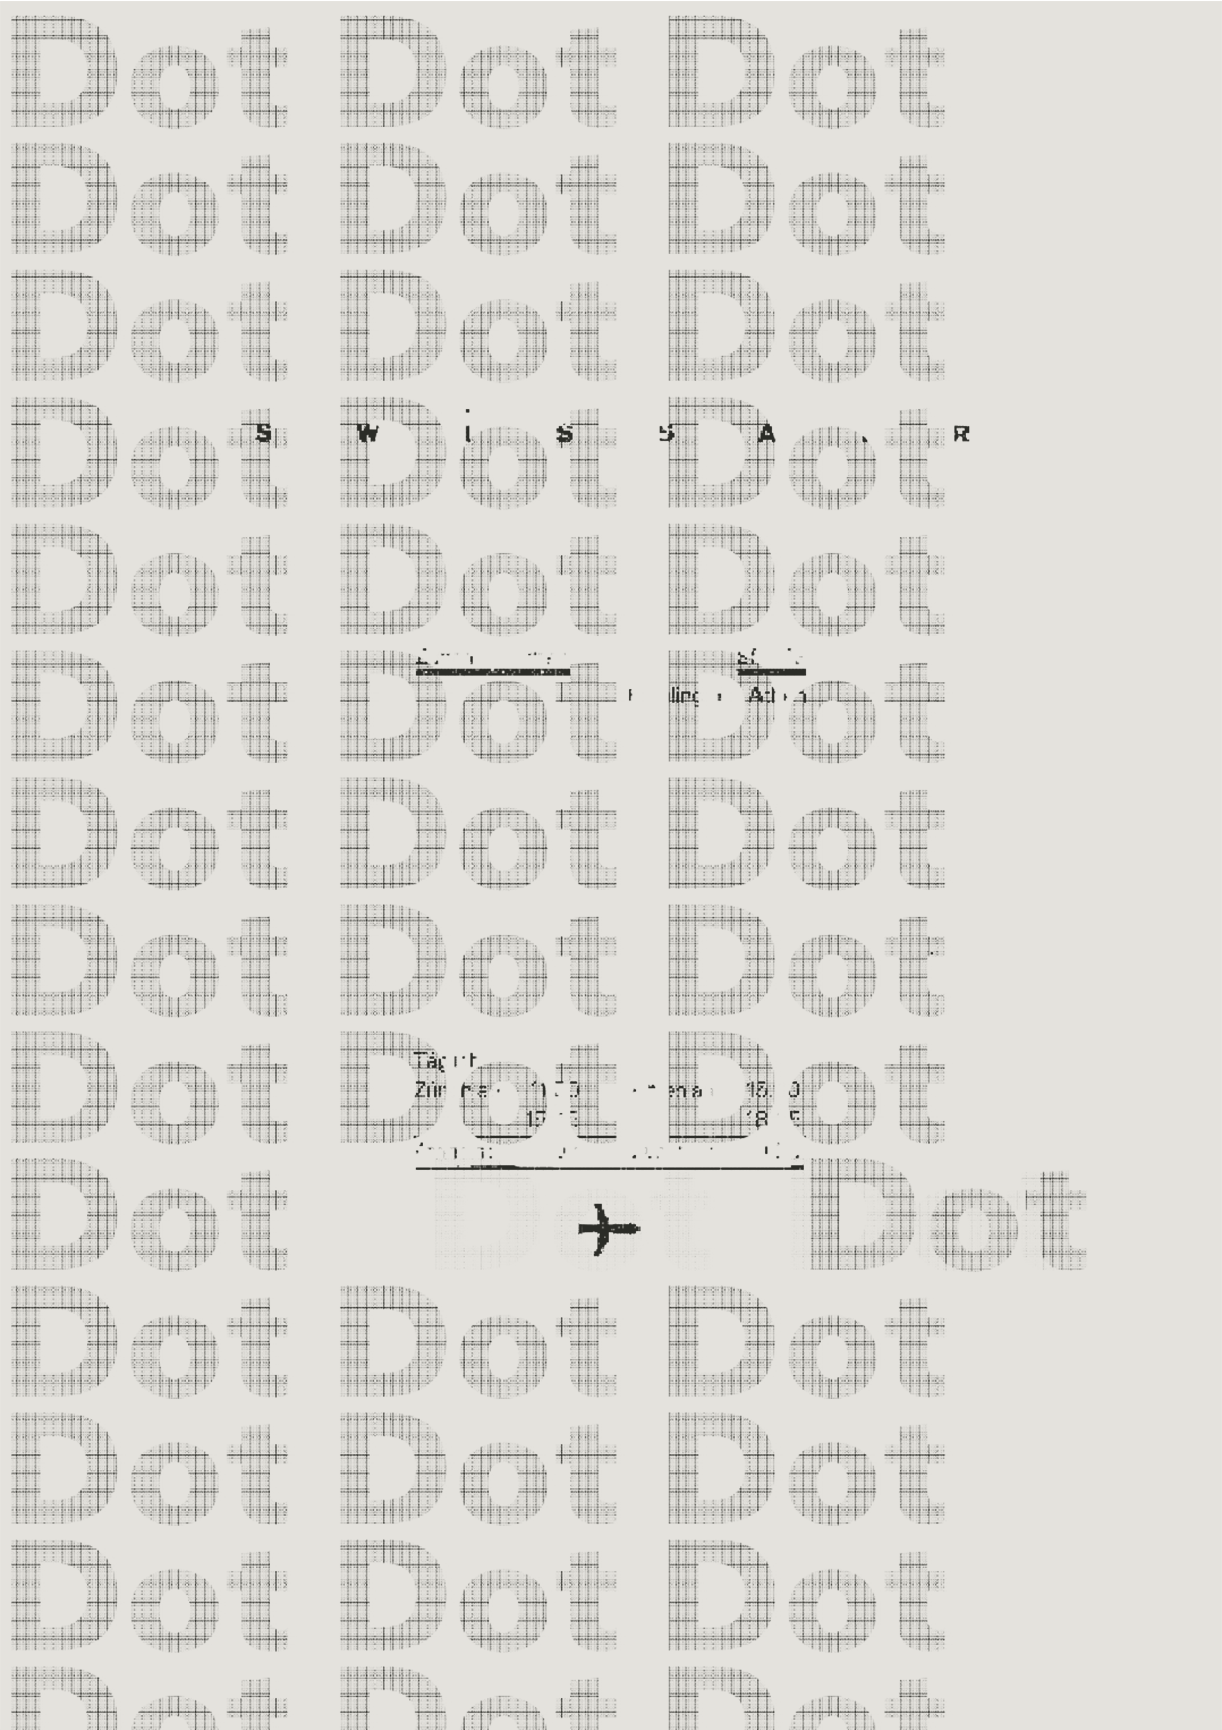
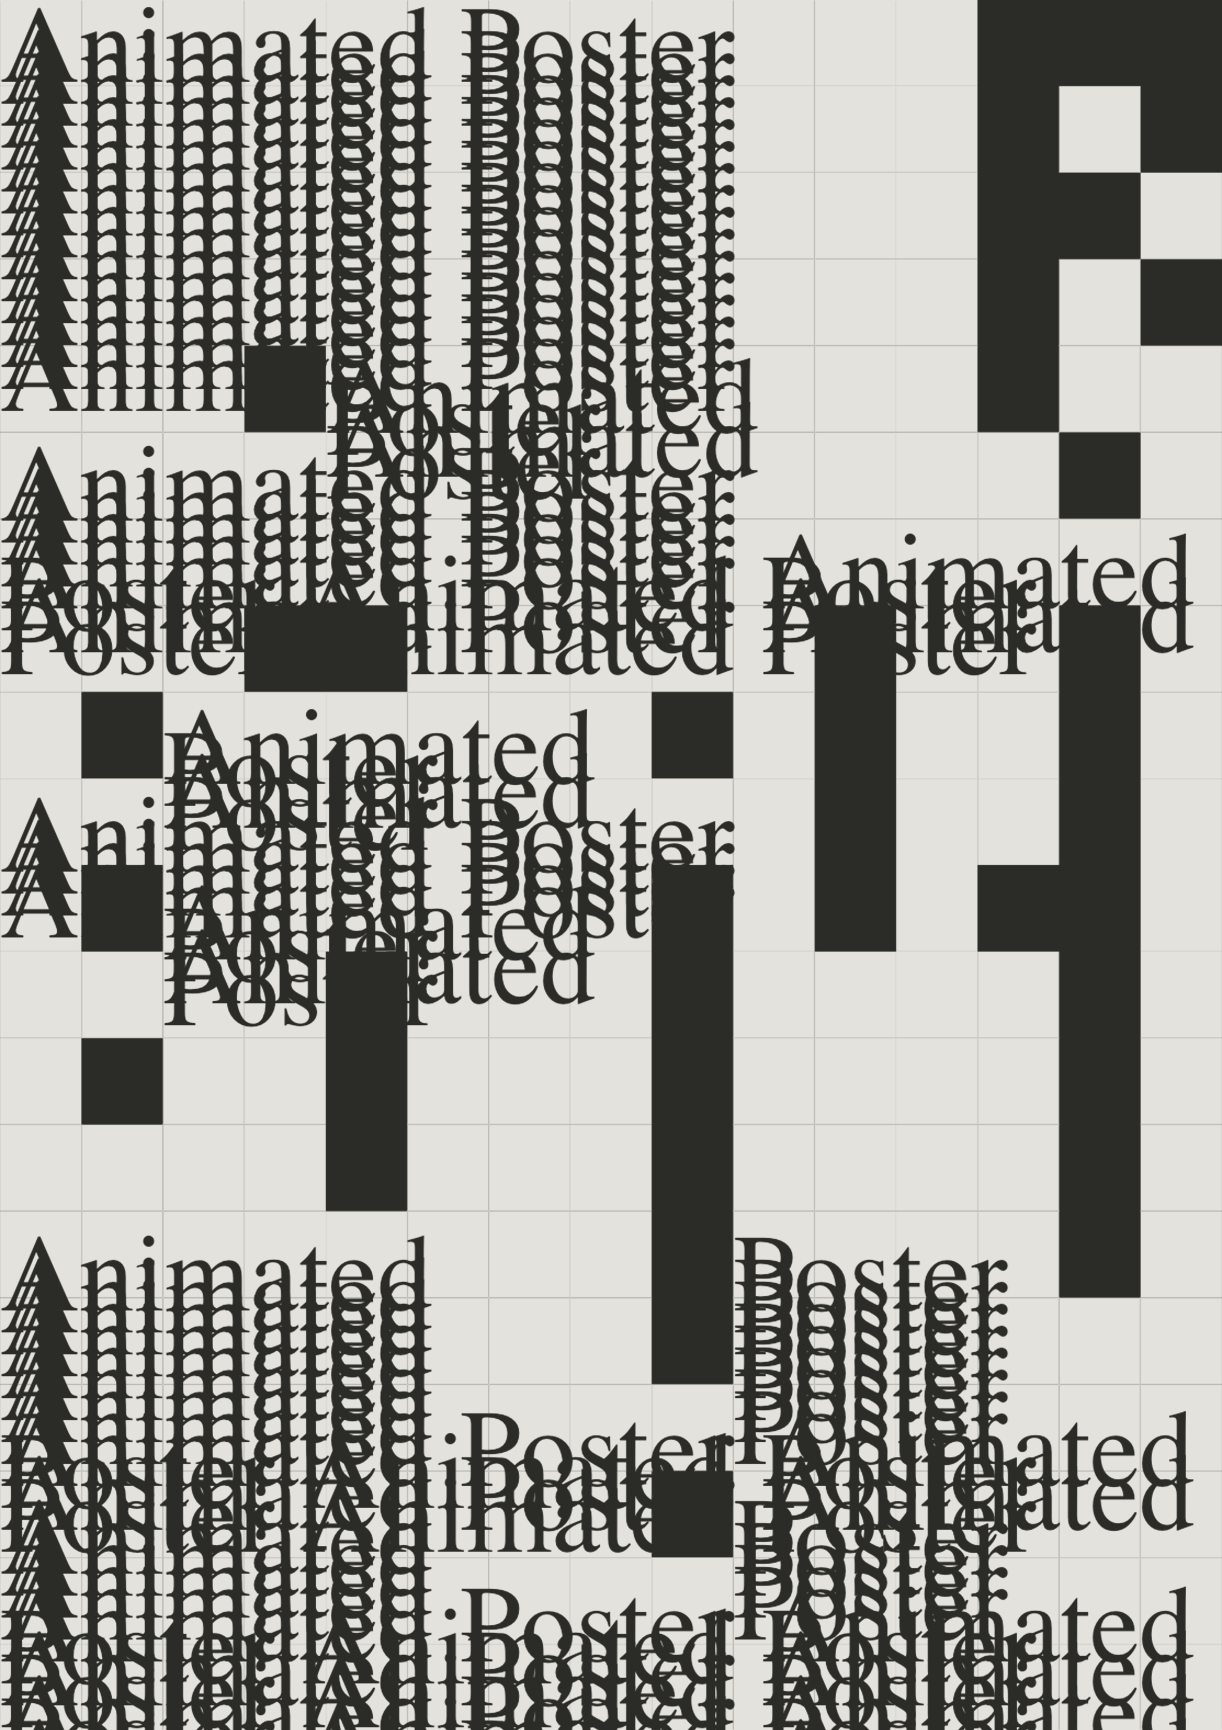
Adjustments

diff --git a/style.css b/style.css
@@ -10,9 +10,9 @@
   --font-mono: "Archive Grotesk Mono 400";
   --font-mono-italic: "Archive Grotesk Mono 400 Italic";
 
-  --font-size-base: 14.2px;
-  --font-size-sm: 13.7px;
-  --font-size-md: 14px;
+  --font-size-base: 13.8px;
+  --font-size-sm: 13.2px;
+  --font-size-md: 13.5px;
 
   --line-height-tight: 1.07;
   --line-height-base: 1.12;
@@ -233,12 +233,15 @@ body.imprint-open .bottom {
 
 #hover-image-overlay {
   position: fixed;
-  top: 0;
+   top: 0;
   right: 0;
   bottom: 0;
-  left: auto;  /* 66.3vw; */
+  left: 0;
+  display: flex;
+  align-items: center;
+  justify-content: center;
   pointer-events: none;
-  z-index: 100;
+  z-index: 10;
   opacity: 0;
   transition: opacity 0.2s ease;
   /* background: #fff; */
@@ -257,10 +260,19 @@ body.imprint-open .bottom {
   background: #fff;
 }
 
-#app:has(#table-view:not(.detail-mode)) + #hover-image-overlay.visible {
+#app:has(#table-view:not(.detail-mode)) + #hover-image-overlay {
+  top: 0;
+  right: 0;
+  bottom: 0;
+  left: 0;
+  display: flex;
+  align-items: center;
+  justify-content: center;
+  transform: none;
   opacity: 0.5;
-  filter: saturate(130%);
+  filter: saturate(140%);
   mix-blend-mode: hard-light;
+  z-index: 100;
 }
 
 #hover-image-overlay.visible {
@@ -274,6 +286,34 @@ body.imprint-open .bottom {
   object-fit: cover;
   object-position: left center;
   display: block;
+}
+
+#app:has(#table-view:not(.detail-mode)) + #hover-image-overlay img,
+#app:has(#table-view:not(.detail-mode)) + #hover-image-overlay video {
+  width: auto;
+  height: 45vh;
+}
+
+#app:has(#table-view.detail-mode) + #hover-image-overlay {
+  top: 0;
+  right: 0;
+  bottom: 0;
+  left: 0;
+  display: flex;
+  align-items: center;
+  justify-content: center;
+  transform: none;
+  z-index: 10;
+}
+
+#app:has(#table-view.detail-mode) + #hover-image-overlay img,
+#app:has(#table-view.detail-mode) + #hover-image-overlay video {
+  width: auto;
+  height: 100vh;
+}
+
+#app:has(#table-view:not(.detail-mode)) + #hover-image-overlay video {
+  display: none;
 }
 
 #hover-image-overlay img.hidden,
